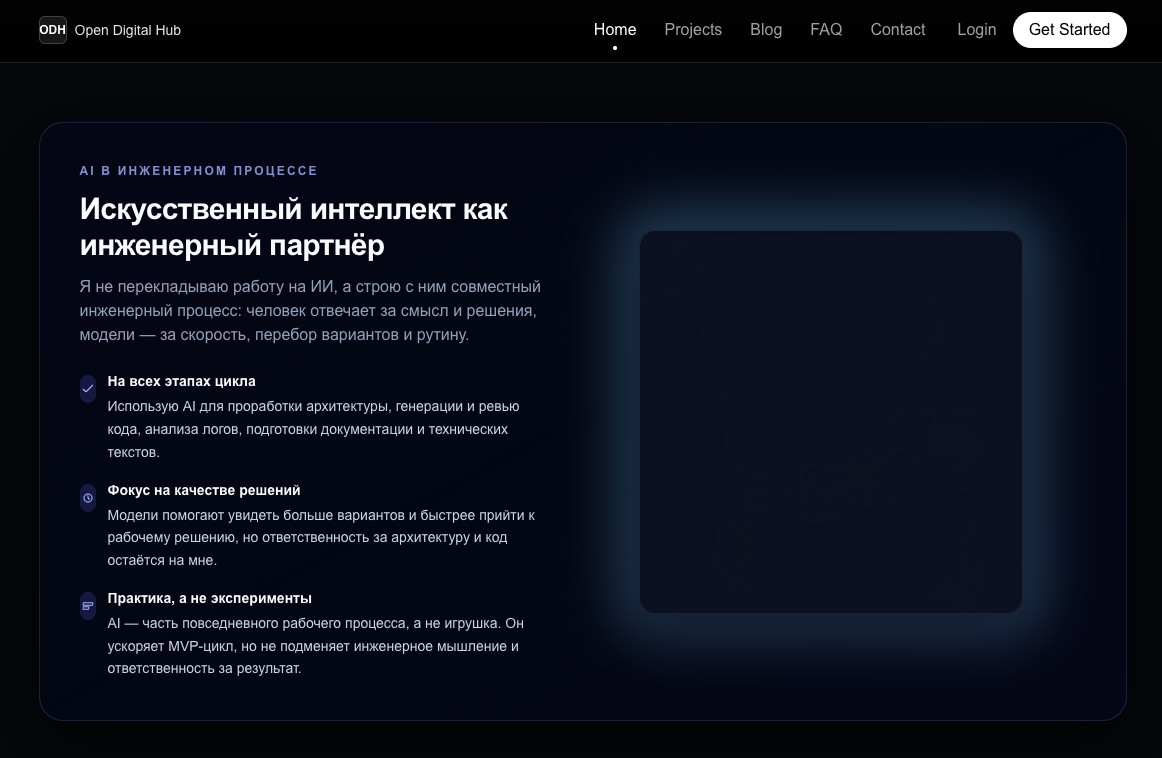
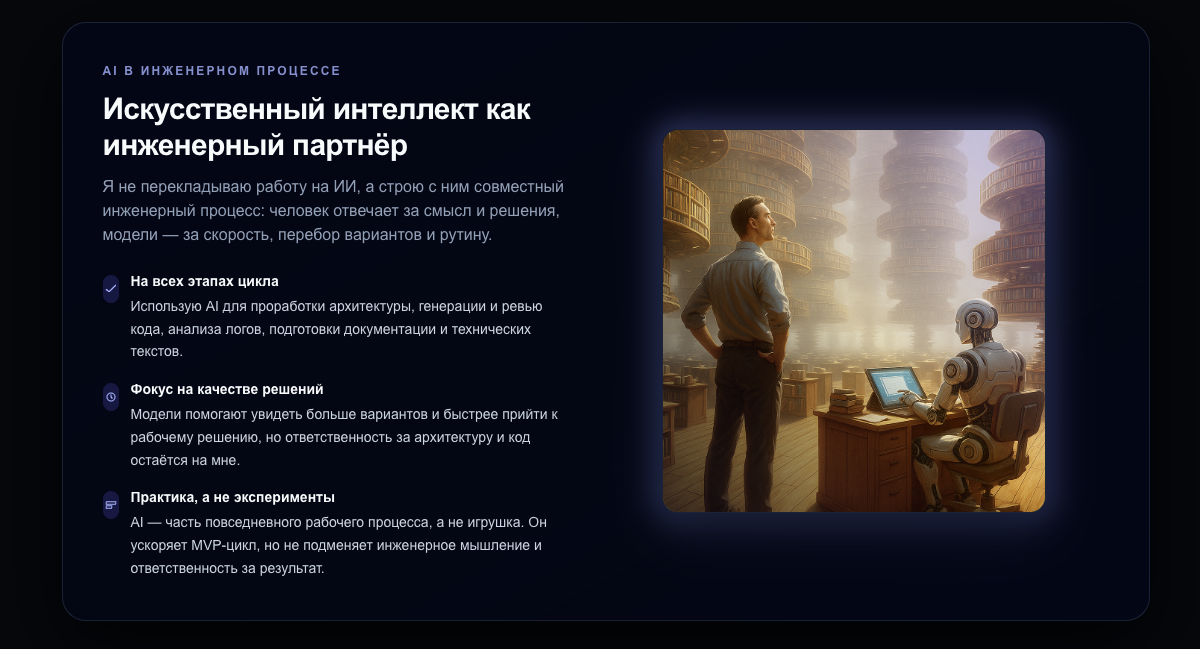
Refine hero layout, section headings, projects preview sizing, and update Digital Hub screenshot

diff --git a/src/sections/home/ProjectsSection.tsx b/src/sections/home/ProjectsSection.tsx
@@ -61,7 +61,7 @@ export function ProjectsSection() {
           {/* Левая панель — заголовок + табы */}
           <div className="w-full md:w-[25%] space-y-8">
             <div>
-              <p className="text-xs font-semibold uppercase tracking-[0.2em] text-neutral-400">
+              <p className="text-sm md:text-base font-semibold uppercase tracking-[0.18em] text-neutral-300">
                 Projects & Cases
               </p>
               <h2 className="mt-3 text-3xl font-semibold tracking-tight text-neutral-50 md:text-4xl">
@@ -125,10 +125,10 @@ export function ProjectsSection() {
                 animate="animate"
                 exit="exit"
               transition={{ duration: 0.35, ease: 'easeOut' }}
-              className="group relative rounded-3xl bg-neutral-900/90 p-6 shadow-[0_30px_80px_rgba(0,0,0,0.65)] ring-1 ring-neutral-800/80
-                         md:ml-6 lg:ml-16 xl:ml-24 2xl:ml-32
-                         md:w-[115%] lg:w-[135%] xl:w-[150%]
-                         transition-transform duration-500 group-hover:scale-[1.01]"
+          className="group relative rounded-3xl bg-neutral-900/90 p-6 shadow-[0_30px_80px_rgba(0,0,0,0.65)] ring-1 ring-neutral-800/80
+           md:ml-6 lg:ml-10 xl:ml-12 2xl:ml-16
+           w-full max-w-[1040px]
+           transition-transform duration-500 group-hover:scale-[1.01]"
               >
                 {/* Текстовая часть */}
                 <div className="space-y-4">
@@ -163,7 +163,9 @@ export function ProjectsSection() {
                 onMouseEnter={() => setIsHovered(true)}
                 onMouseLeave={() => setIsHovered(false)}
               >
-                <div className="relative w-full aspect-[16/9] overflow-hidden rounded-3xl border border-neutral-700/80 bg-neutral-950/90 shadow-2xl">
+
+              <div className="mt-6 flex justify-center">
+                <div className="relative max-w-[900px] w-full aspect-[16/9] overflow-hidden rounded-3xl border border-neutral-700/80 bg-neutral-950/90 shadow-2xl">
                   <Image
                     src={screenshots[screenIndex]}
                     alt={activeProject.title}
@@ -172,6 +174,7 @@ export function ProjectsSection() {
                     sizes="(min-width: 1024px) 900px, 100vw"
                   />
                 </div>
+              </div>
 
                 {screenshots.length > 1 && (
                   <div className="mt-3 flex justify-center gap-2">

diff --git a/src/sections/home/HeroSection.tsx b/src/sections/home/HeroSection.tsx
@@ -26,14 +26,9 @@ const itemVariants: Variants = {
 
 export function HeroSection() {
   return (
-    <section
-      className="
-        relative
-        min-h-[80vh]
-        overflow-hidden
-        bg-[#05070B]
-        text-slate-100
-      "
+    <section 
+    className="relative min-h-[70vh] 
+    overflow-hidden bg-[#05070B] text-slate-100"
     >
       {/* 🔹 Фоновое изображение с анимацией */}
       <div
@@ -74,7 +69,7 @@ export function HeroSection() {
           {/* Роль */}
           <motion.p
             variants={itemVariants}
-            className="mt-3 text-xl text-slate-200 md:text-2xl"
+            className="mt-6 text-xl text-slate-200 md:text-2xl"
           >
             Software Architect &amp; AI-Product Engineer
           </motion.p>
@@ -82,9 +77,9 @@ export function HeroSection() {
           {/* CTO-строка */}
           <motion.p
             variants={itemVariants}
-            className="mt-1 text-sm italic text-slate-400"
+            className="mt-2 text-l italic text-slate-400"
           >
-            CTO (Chief Technology Officer)*
+            Ваш персональный CTO *
           </motion.p>
 
           {/* Steps */}
@@ -108,7 +103,7 @@ export function HeroSection() {
                 inline-flex items-center justify-center
                 rounded-full border border-slate-500/60
                 px-6 py-2.5
-                text-sm font-medium text-slate-50
+                text-xl font-medium text-slate-50
                 hover:border-slate-300 hover:bg-slate-50/5
                 transition
               "
@@ -120,7 +115,7 @@ export function HeroSection() {
           {/* Сноска CTO */}
           <motion.p
             variants={itemVariants}
-            className="mt-10 max-w-xl text-xs leading-relaxed text-slate-500"
+            className="mt-10 max-w-xl text-s leading-relaxed text-slate-500"
           >
             * CTO — роль, отвечающая за архитектуру, стек, процессы и
             технологическое развитие продукта.

diff --git a/src/sections/home/AboutMeSection.tsx b/src/sections/home/AboutMeSection.tsx
@@ -66,13 +66,13 @@ export function AboutMeSection() {
 
               <div className="mt-5 space-y-1">
                 <p className="text-[11px] font-medium uppercase tracking-[0.22em] text-slate-400">
-                  LEONID KLEIMANN
+                  Леонид Кляйман
                 </p>
                 <p className="text-sm font-semibold text-slate-50 md:text-base">
-                  Technology Architect &amp; Product Engineer
+                  Software Architect &amp; AI-Product Engineer
                 </p>
                 <p className="text-xs text-slate-400 md:text-sm">
-                  Помогающий практик для фаундеров и ИТ-команд.
+                  Помогающий практик для фаундеров, фпилансеров и ИТ-команд.
                 </p>
               </div>
             </div>

diff --git a/src/sections/home/AIApproachSection.tsx b/src/sections/home/AIApproachSection.tsx
@@ -185,7 +185,7 @@ export function AIApproachSection() {
               className="flex flex-col justify-center space-y-6"
             >
               <div className="space-y-3">
-                <p className="text-xs font-semibold uppercase tracking-[0.18em] text-indigo-300/80">
+                <p className="text-sm md:text-base font-semibold uppercase tracking-[0.18em] text-neutral-300">
                   AI в инженерном процессе
                 </p>
                 <h2 className="text-2xl font-semibold tracking-tight text-slate-50 sm:text-3xl">
